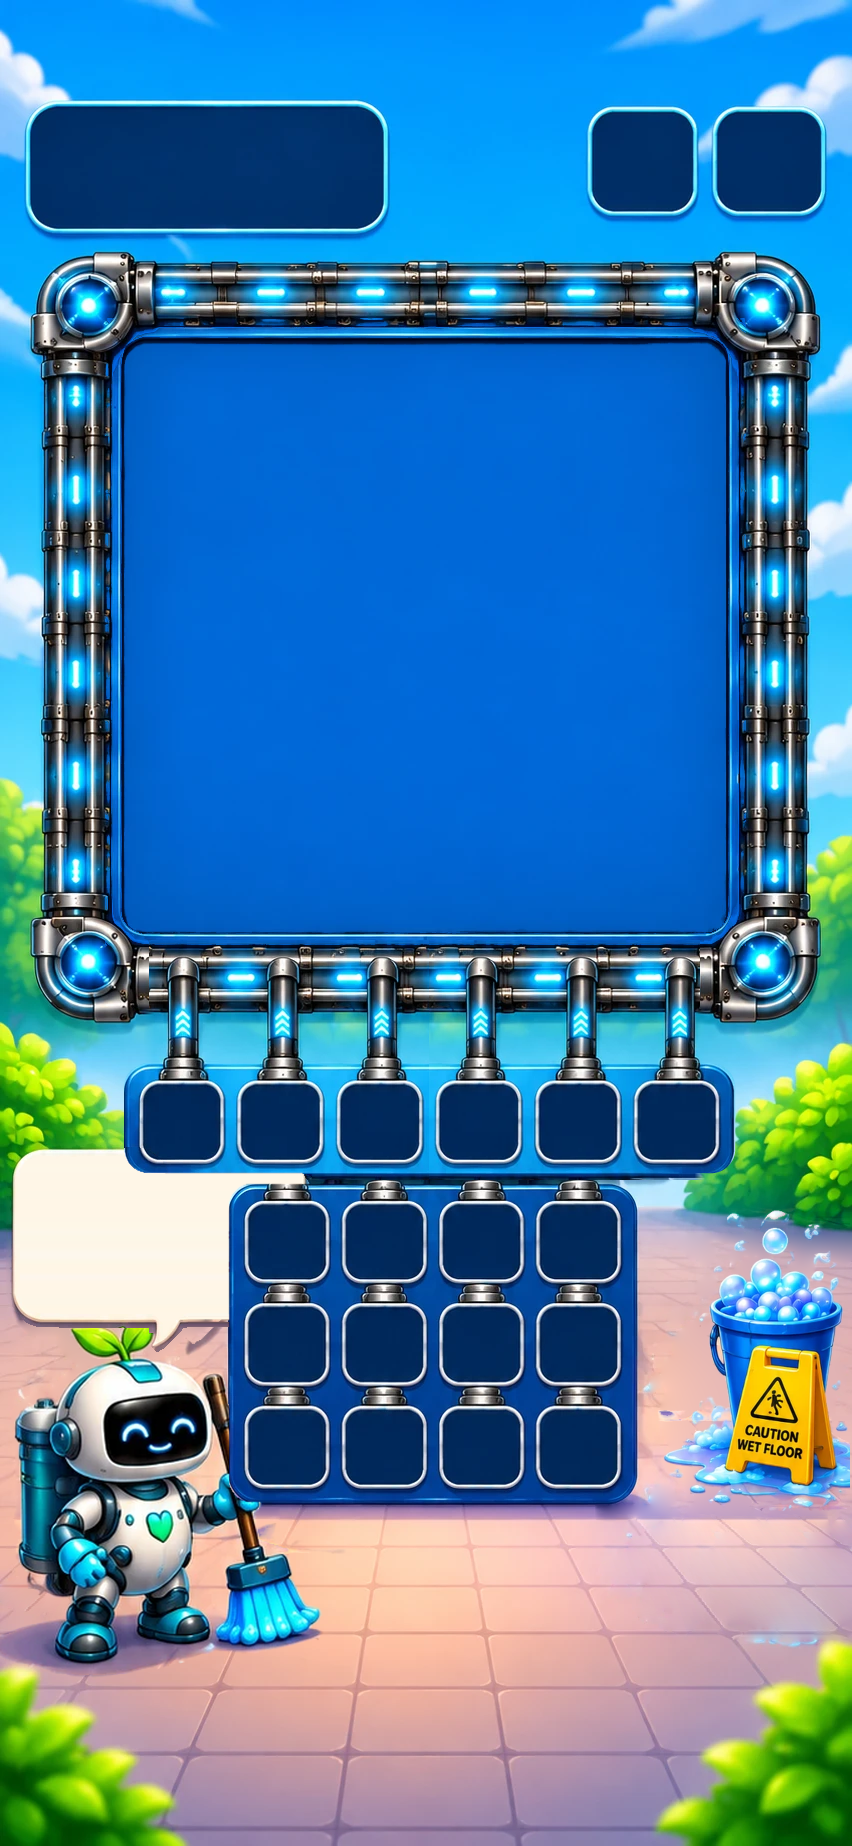
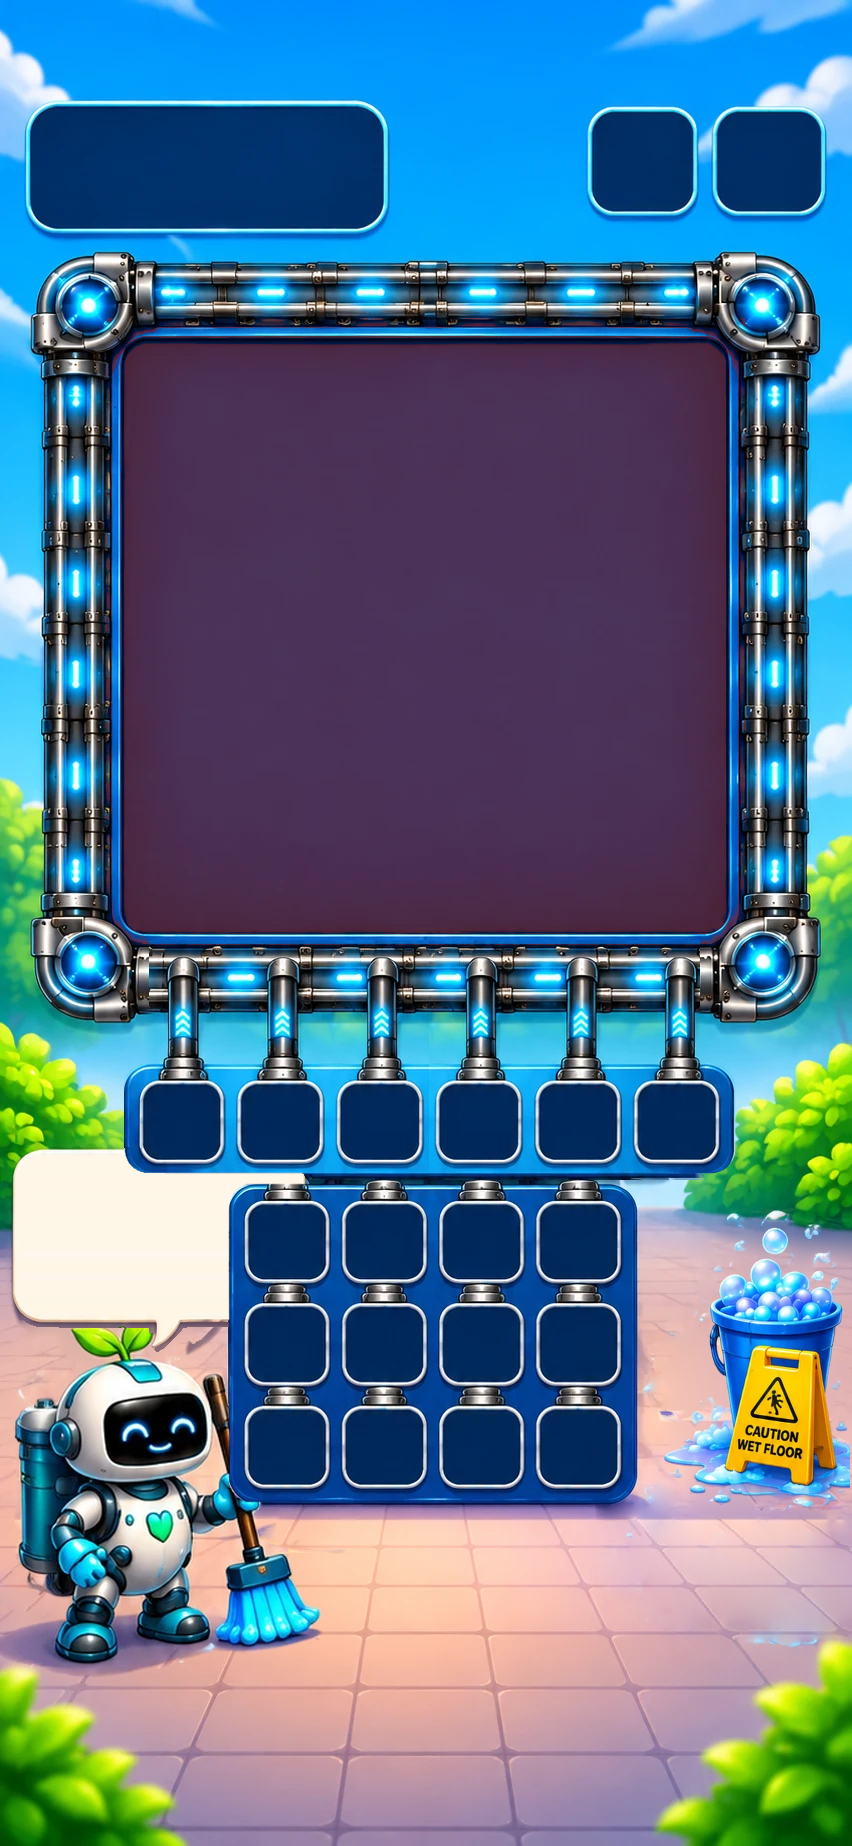
Gameplay: dark purple-grey board floor #4A3258, shell fills the width (SB-TF-13)

Changed region(s): [[0.1221, 0.1544, 0.885, 0.5249]]

diff --git a/tools/gameplay_shell_masters.py b/tools/gameplay_shell_masters.py
@@ -49,10 +49,10 @@ PROPS_OLD = (600, 1230, 845, 1625)
 PROPS_SCALE, PROPS_FOOT = 0.75, (845, 1625, 845, 1500)
 BUBBLE_SEAM, BUBBLE_WIDEN = 188, 90  # straight body column right of the tail; extra width
 STRIP_MIRROR = 857                   # strip is symmetric: x <-> 857 - x (192+665, 269+588)
-# Board floor: BoardPresentation.BOARD_FLOOR (SB-TF-10 owner rail-glow blue); the baked navy field is lifted onto it.
+# Board floor: BoardPresentation.BOARD_FLOOR (SB-TF-13 owner dark purple-grey #4A3258); the baked navy field is lifted onto it.
 BOARD_FIELD = (105, 318, 746, 946)
 NAVY = np.array([0, 55, 123])
-FLOOR = np.array([0, 104, 216])
+FLOOR = np.array([74, 50, 88])
 # One-point floor grid (vertical grout lines meet at y FLOOR_YH; period U per px below it).
 FLOOR_YH, FLOOR_U, FLOOR_GUIDE_Y0 = 1241.0, 0.304, 1500
 

diff --git a/coordination/OWNER_GAMEPLAY_345_STATIC_MASTER_SHELL_V01.md b/coordination/OWNER_GAMEPLAY_345_STATIC_MASTER_SHELL_V01.md
@@ -344,3 +344,28 @@ the Supply panel, slots or the bottom banner. The SHA-256 of §11 is superseded 
[1 lines of base64/hex data omitted]
 
 Tests: `tests/sb_tf04_gameplay_layout.gd`.
+
+## 13. Owner amendment 2026-11-19: dark purple-grey floor and full-width shell (SB-TF-13)
+
+TestFlight 26: the rail-glow blue #0068D8 of §12 hid the C07 / C08 blue cells. Owner chose a
+colour outside the 16 palette colours, dark purple-grey: `BoardPresentation.BOARD_FLOOR` #4A3258,
+CIE76 Lab distance >= 20 from every C01..C16 and from BG01 #202533 (nearest: BG01 21.8, C14 28.5,
+C08 32.8, C16 36.6). The six masters are regenerated by `tools/gameplay_shell_masters.py` (navy
+board field lifted to #4A3258; nothing else changes). Layout: the shell now fills the screen width;
+only master rows `GameplayScreen.CRIT_TOP` (106, the profile box top) .. the booster band bottom
+(1636) must fit the safe height above the banner reservation + 24 px, the sky / plaza floor outside
+that band may run under the notch, banner or screen edge. A screen too short for that at full width
+scales the shell to the band, and the master's own outermost 3 px columns / rows are stretched
+over the gaps beside / above / below it (`GameplayBackdrop`), never FILL bars. The SHA-256
+of §12 is superseded by:
+
+| id | SHA-256 |
+|---|---|
[6 lines of base64/hex data omitted]
+
+Tests: `tests/sb_tf04_gameplay_layout.gd`, `tests/sb_tf13_feedback.gd`.

diff --git a/docs/MASTER_UI_SYSTEM.md b/docs/MASTER_UI_SYSTEM.md
@@ -130,8 +130,12 @@ x0.75 beside the Supply panel at `PROPS_ANCHOR` [661,1204,845,1500] (may overlap
 panel); speech bubble behind the slot strip and Supply panel at `SPEECH_ANCHOR` [14,1150,304,1345]
 with the live text in `BUBBLE_HEADLINE_REF` [32,1178,206,1226] / `BUBBLE_INSTRUCTION_REF`
 [32,1230,206,1306] over the mask `Shell.BUBBLE_TEXT` [28,1174,208,1310]. Board floor: one constant
-`BoardPresentation.BOARD_FLOOR` #0068D8, the owner-picked rail-glow blue (SB-TF-10; owner waived
-the 1.3:1 C01..C16 contrast rule for it); the masters' navy field is baked to it. The six masters are regenerated by
+`BoardPresentation.BOARD_FLOOR` #4A3258, the owner-chosen dark purple-grey outside the 16 palette
+colours (SB-TF-13; Lab distance >= 20 from every C01..C16 and BG01; replaces the SB-TF-10 rail-glow
+blue that hid C07 / C08); the masters' navy field is baked to it. SB-TF-13: the shell fills the
+screen width; only master rows 106..1636 (top bar .. boosters) must fit the safe height above the
+banner reservation; on a screen too short for that the master's own outermost 3 px columns / rows
+are stretched over the gaps (`GameplayBackdrop`), never FILL bars. The six masters are regenerated by
 `tools/gameplay_shell_masters.py` from the owner plaza image.
 
 Normal visual/gameplay flow must read:
